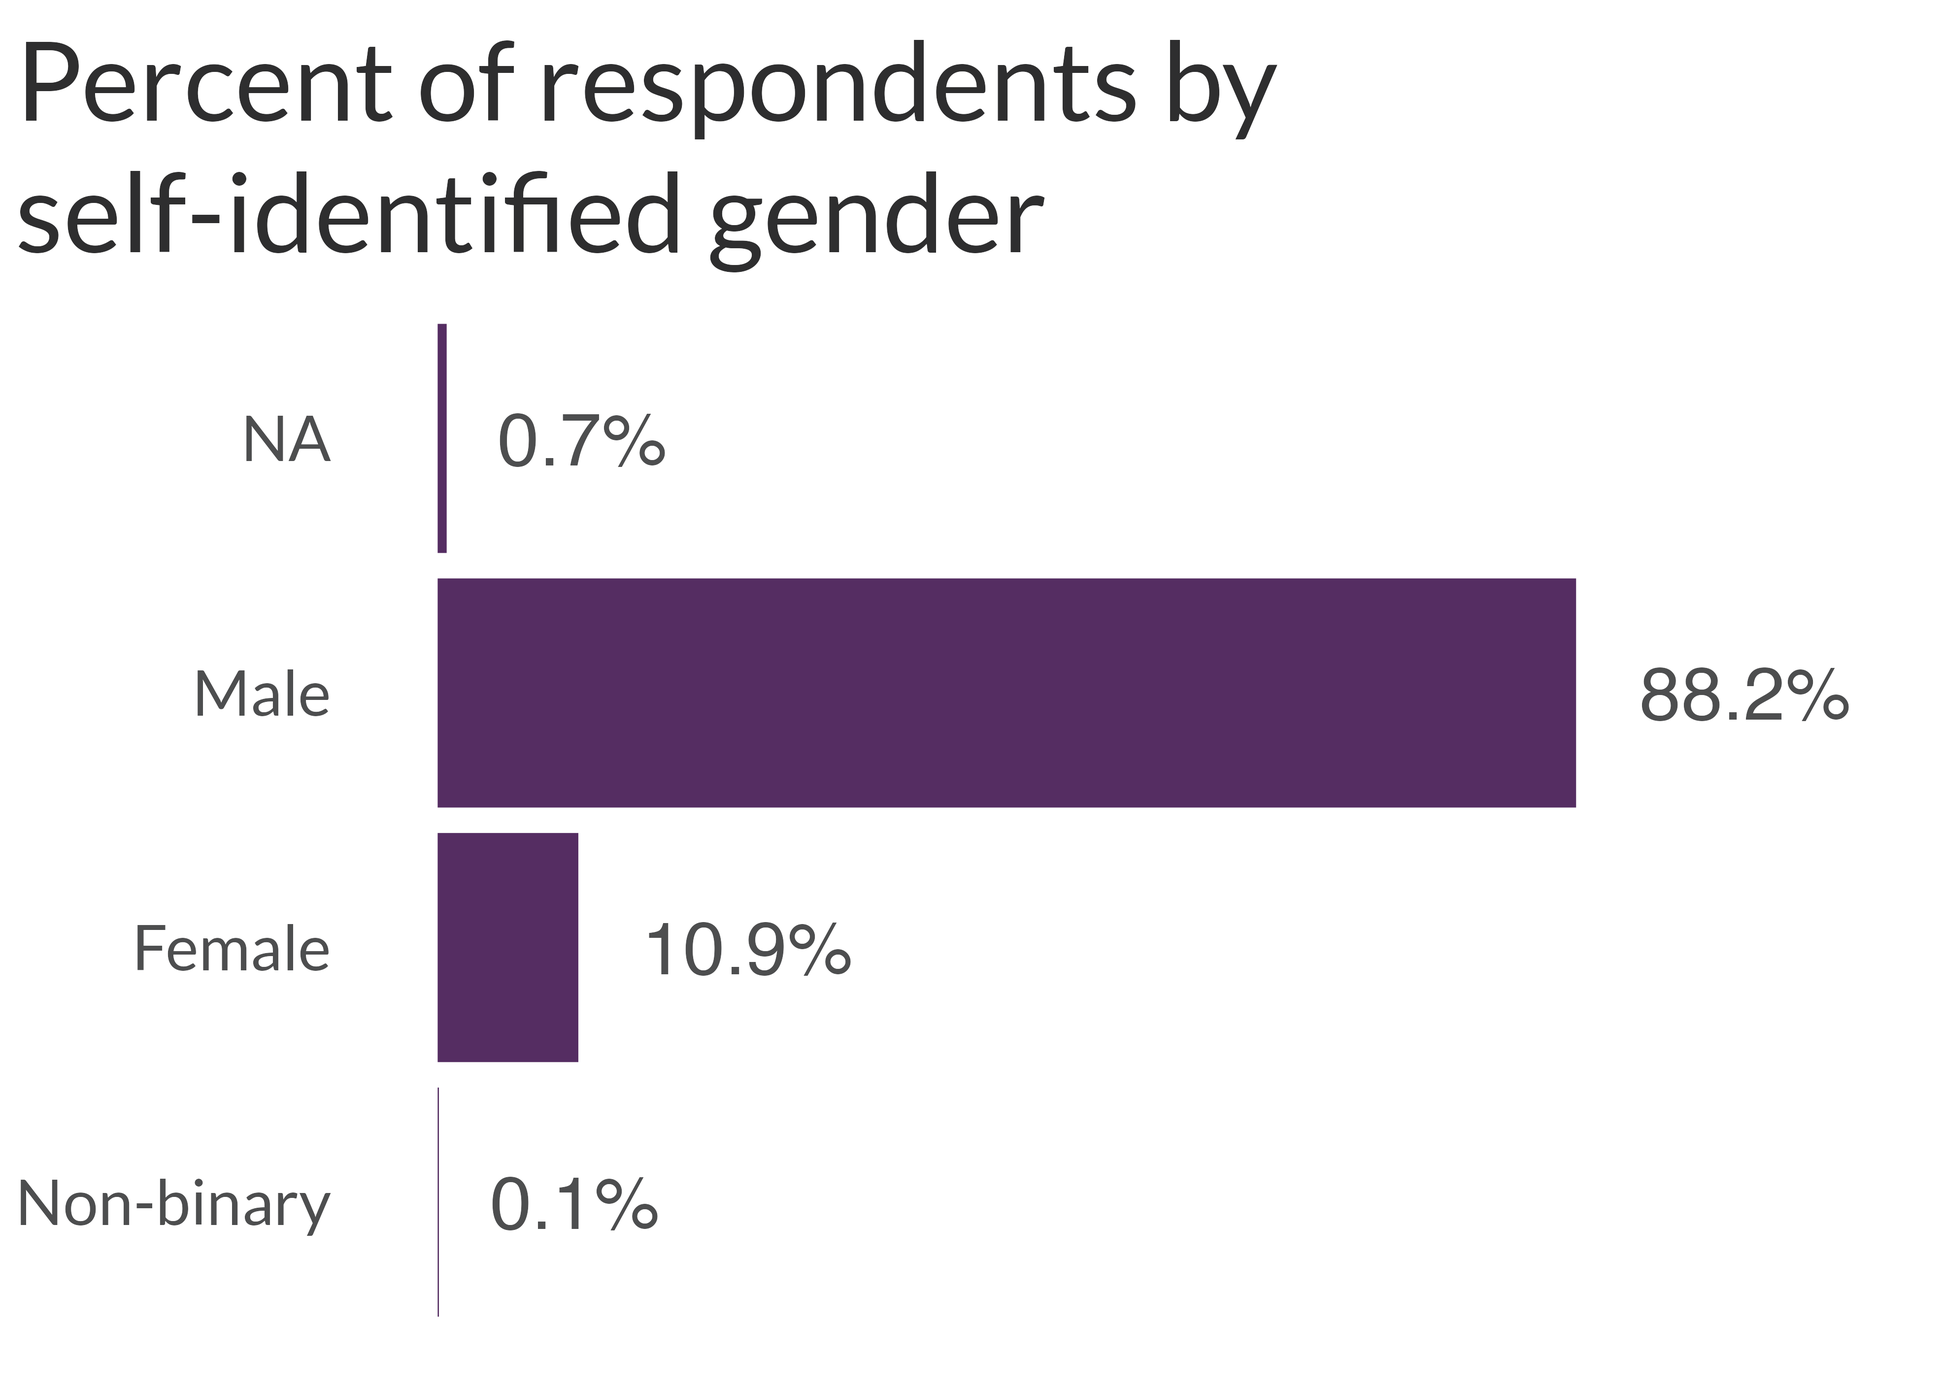
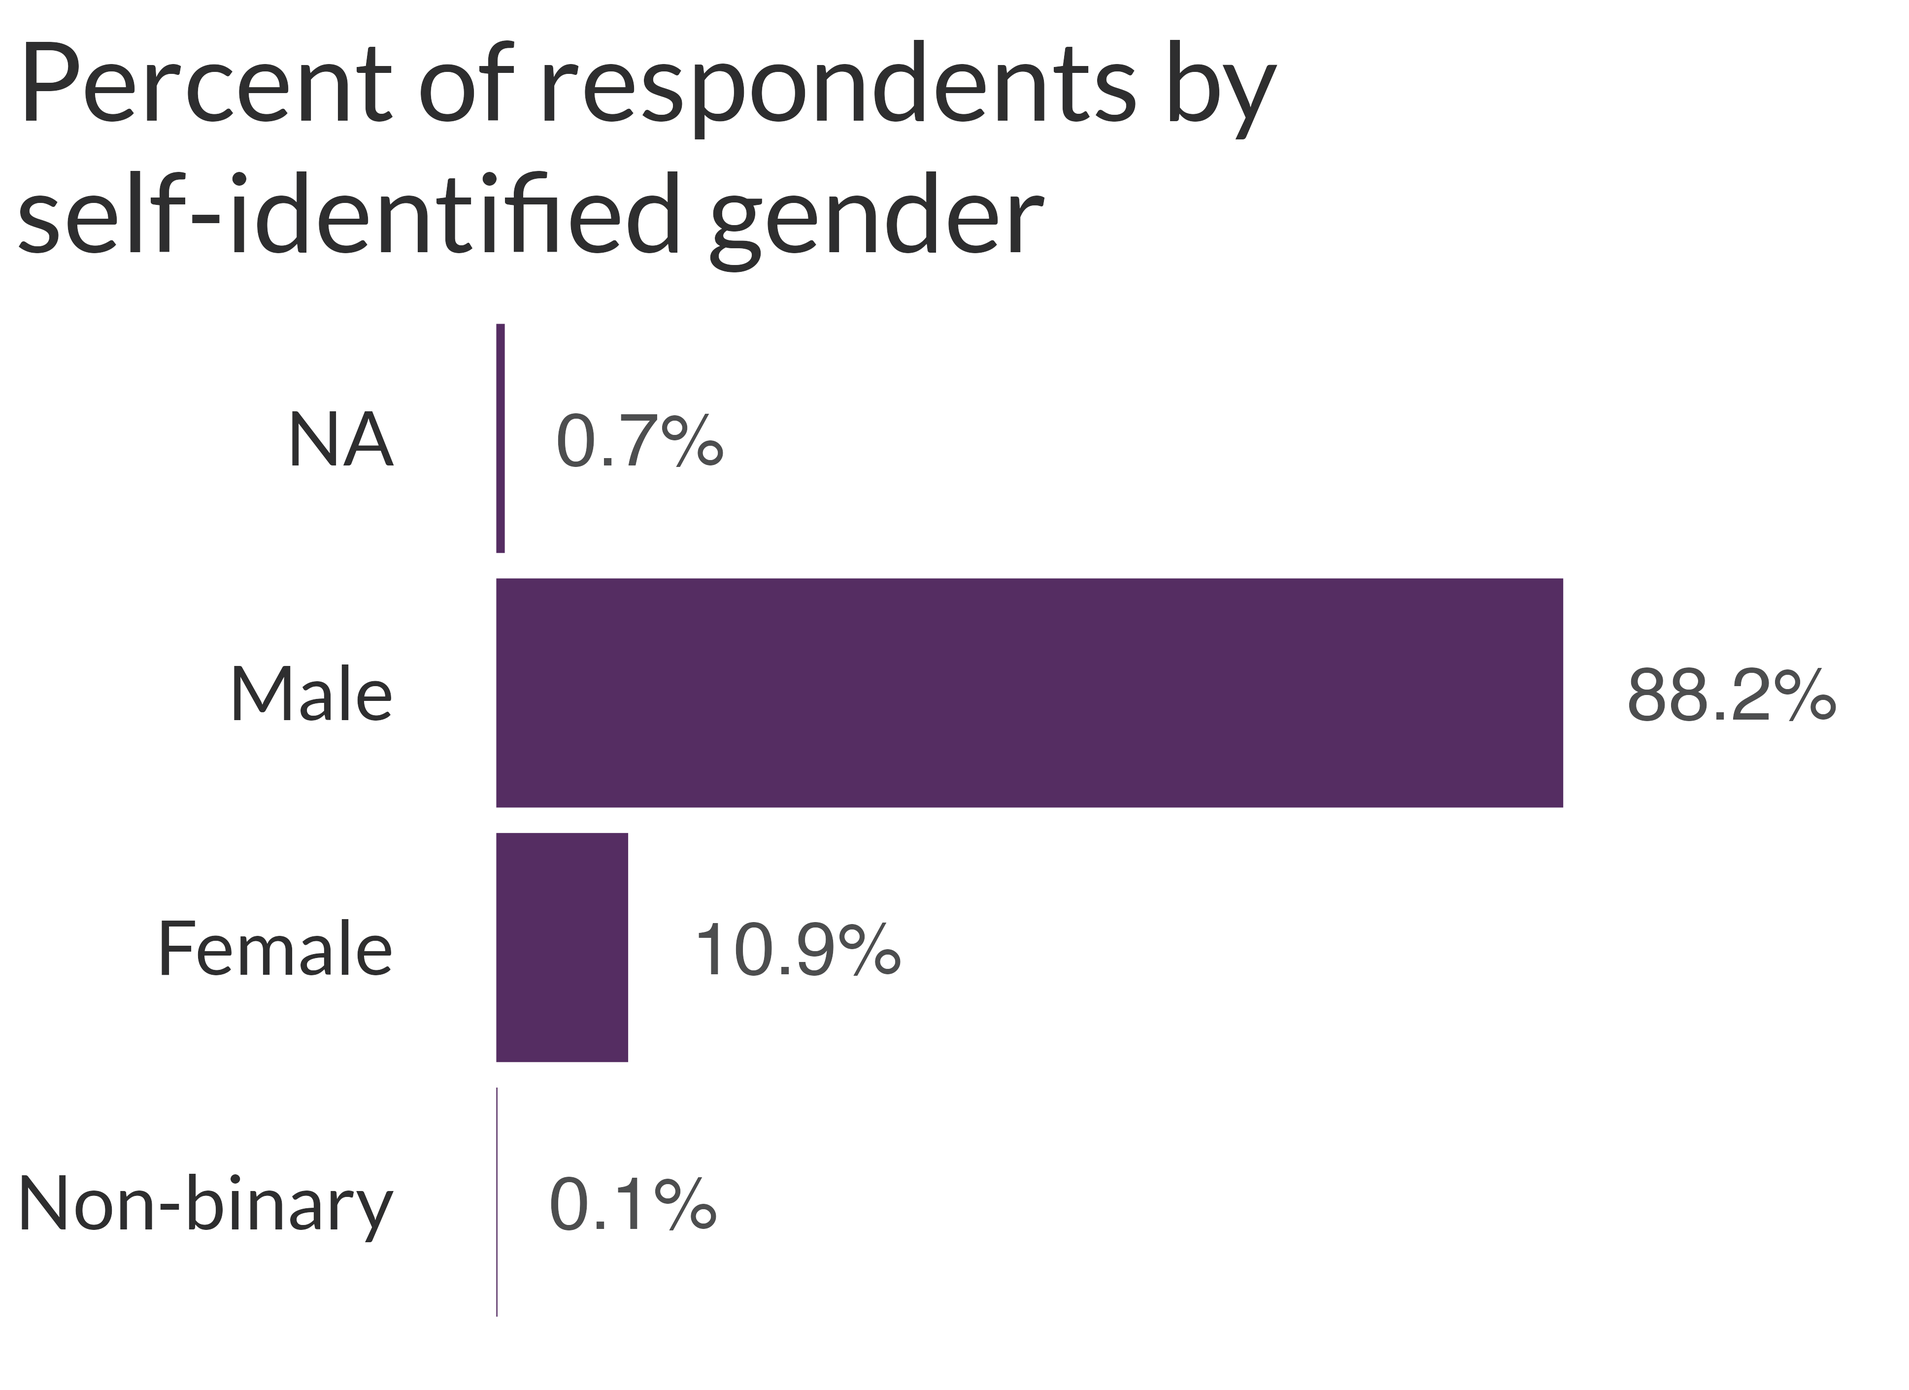
Figure tweaks, updates to RSE version

diff --git a/2023-04-22_SatRday-London_R-sustainability-EDI.html b/2023-04-22_SatRday-London_R-sustainability-EDI.html
@@ -5,9 +5,10 @@
 <script src="2023-04-22_SatRday-London_R-sustainability-EDI_files/libs/quarto-html/popper.min.js"></script>
 <script src="2023-04-22_SatRday-London_R-sustainability-EDI_files/libs/quarto-html/tippy.umd.min.js"></script>
 <link href="2023-04-22_SatRday-London_R-sustainability-EDI_files/libs/quarto-html/tippy.css" rel="stylesheet">
+<link href="2023-04-22_SatRday-London_R-sustainability-EDI_files/libs/quarto-html/light-border.css" rel="stylesheet">
 <link href="2023-04-22_SatRday-London_R-sustainability-EDI_files/libs/quarto-html/quarto-html.min.css" rel="stylesheet" data-mode="light">
 <link href="2023-04-22_SatRday-London_R-sustainability-EDI_files/libs/quarto-html/quarto-syntax-highlighting.css" rel="stylesheet" id="quarto-text-highlighting-styles"><meta charset="utf-8">
-  <meta name="generator" content="quarto-1.2.335">
+  <meta name="generator" content="quarto-1.3.250">
 
   <meta name="author" content="Heather Turner and Ella Kaye">
   <meta name="dcterms.date" content="2023-04-22">
@@ -26,7 +27,7 @@
     ul.task-list{list-style: none;}
     ul.task-list li input[type="checkbox"] {
       width: 0.8em;
-      margin: 0 0.8em 0.2em -1.6em;
+      margin: 0 0.8em 0.2em -1em; /* quarto-specific, see https://github.com/quarto-dev/quarto-cli/issues/4556 */ 
       vertical-align: middle;
     }
   </style>
@@ -73,44 +74,44 @@
     font-weight: 400;
   }
 
-  .callout.callout-captioned.callout-style-simple .callout-body {
+  .callout.callout-titled.callout-style-simple .callout-body {
     margin-top: 0.2em;
   }
 
-  .callout:not(.callout-captioned) .callout-body {
+  .callout:not(.callout-titled) .callout-body {
       display: flex;
   }
 
-  .callout:not(.no-icon).callout-captioned.callout-style-simple .callout-content {
+  .callout:not(.no-icon).callout-titled.callout-style-simple .callout-content {
     padding-left: 1.6em;
   }
 
-  .callout.callout-captioned .callout-header {
+  .callout.callout-titled .callout-header {
     padding-top: 0.2em;
     margin-bottom: -0.2em;
   }
 
-  .callout.callout-captioned .callout-caption  p {
+  .callout.callout-titled .callout-title  p {
     margin-top: 0.5em;
     margin-bottom: 0.5em;
   }
     
-  .callout.callout-captioned.callout-style-simple .callout-content  p {
+  .callout.callout-titled.callout-style-simple .callout-content  p {
     margin-top: 0;
   }
 
-  .callout.callout-captioned.callout-style-default .callout-content  p {
+  .callout.callout-titled.callout-style-default .callout-content  p {
     margin-top: 0.7em;
   }
 
-  .callout.callout-style-simple div.callout-caption {
+  .callout.callout-style-simple div.callout-title {
     border-bottom: none;
     font-size: .9rem;
     font-weight: 600;
     opacity: 75%;
   }
 
-  .callout.callout-style-default  div.callout-caption {
+  .callout.callout-style-default  div.callout-title {
     border-bottom: none;
     font-weight: 600;
     opacity: 85%;
@@ -142,7 +143,7 @@
     background-size: 0.9rem 0.9rem;
   }
 
-  .callout-caption {
+  .callout-title {
     display: flex
   }
     
@@ -155,16 +156,16 @@
     display: none !important;
   }
 
-  .callout.callout-captioned .callout-body > .callout-content > :last-child {
+  .callout.callout-titled .callout-body > .callout-content > :last-child {
     margin-bottom: 0.5rem;
   }
 
-  .callout.callout-captioned .callout-icon::before {
+  .callout.callout-titled .callout-icon::before {
     margin-top: .5rem;
     padding-right: .5rem;
   }
 
-  .callout:not(.callout-captioned) .callout-icon::before {
+  .callout:not(.callout-titled) .callout-icon::before {
     margin-top: 1rem;
     padding-right: .5rem;
   }
@@ -179,7 +180,7 @@
[1 lines of base64/hex data omitted]
   }
 
-  div.callout-note.callout-style-default .callout-caption {
+  div.callout-note.callout-style-default .callout-title {
     background-color: #dae6fb
   }
 
@@ -191,7 +192,7 @@
[1 lines of base64/hex data omitted]
   }
 
-  div.callout-important.callout-style-default .callout-caption {
+  div.callout-important.callout-style-default .callout-title {
     background-color: #f7dddc
   }
 
@@ -203,7 +204,7 @@
[1 lines of base64/hex data omitted]
   }
 
-  div.callout-warning.callout-style-default .callout-caption {
+  div.callout-warning.callout-style-default .callout-title {
     background-color: #fcefdc
   }
 
@@ -215,7 +216,7 @@
[1 lines of base64/hex data omitted]
   }
 
-  div.callout-tip.callout-style-default .callout-caption {
+  div.callout-tip.callout-style-default .callout-title {
     background-color: #ccf1e3
   }
 
@@ -227,7 +228,7 @@
[1 lines of base64/hex data omitted]
   }
 
-  div.callout-caution.callout-style-default .callout-caption {
+  div.callout-caution.callout-style-default .callout-title {
     background-color: #ffe5d0
   }
 
@@ -375,7 +376,7 @@ Heather Turner and Ella Kaye
 <h2>Sustainability</h2>
 <p>Those who contributed the most to R early on are now near the end of their careers, only partially replaced by new contributors.</p>
 
-<img data-src="figures/r_core_commits.png" class="r-stretch quarto-figure-center"><aside class="notes">
+<img data-src="figures/r_core_commits.png" width="432" class="r-stretch quarto-figure-center"><aside class="notes">
 <ul>
 <li>Originally developed by academics, core R underpins &gt;20,000 packages</li>
 <li>Early on, strong group of heavy committers supported by wide group of regular committers</li>
@@ -404,7 +405,7 @@ Heather Turner and Ella Kaye
 <div class="cell-output-display">
 <div class="quarto-figure quarto-figure-center">
 <figure>
-<p><img data-src="figures/gender.png" style="width:90.0%"></p>
+<p><img data-src="figures/gender.png" style="width:100.0%"></p>
 </figure>
 </div>
 </div>
@@ -414,7 +415,7 @@ Heather Turner and Ella Kaye
 <div class="cell-output-display">
 <div class="quarto-figure quarto-figure-center">
 <figure>
-<p><img data-src="figures/location.png" style="width:90.0%"></p>
+<p><img data-src="figures/location.png" style="width:100.0%"></p>
 </figure>
 </div>
 </div>
@@ -431,9 +432,9 @@ Heather Turner and Ella Kaye
 <li>Decreased duplication of effort as people work together</li>
 </ul>
 <div class="fragment">
-<div class="callout callout-note no-icon callout-captioned callout-style-default">
+<div class="callout callout-note no-icon callout-titled callout-style-default">
 <div class="callout-body">
-<div class="callout-caption">
+<div class="callout-title">
 <p><strong>Personal reflection</strong></p>
 </div>
 <div class="callout-content">
@@ -519,7 +520,7 @@ Heather Turner and Ella Kaye
 <li>Reviewing bugs</li>
 </ul>
 
-<img data-src="figures/bug_status.png" class="r-stretch quarto-figure-center"><aside class="notes">
+<img data-src="figures/bug_status.png" width="358" class="r-stretch quarto-figure-center"><aside class="notes">
 <p>lots unconfirmed - confirming they are really bugs is something that novice contributors can do</p>
 <style type="text/css">
         span.MJX_Assistive_MathML {
@@ -540,7 +541,7 @@ Heather Turner and Ella Kaye
 <li>Contributing translations</li>
 </ul>
 
-<img data-src="figures/translation_status.png" class="r-stretch quarto-figure-center"><aside class="notes">
+<img data-src="figures/translation_status.png" width="442" class="r-stretch quarto-figure-center"><aside class="notes">
 <p>translations of messages Spanish is an interesting case, given large Spanish-speaking userbase</p>
 <style type="text/css">
         span.MJX_Assistive_MathML {
@@ -1118,9 +1119,23 @@ div.callout-warning.callout-style-default .callout-title {
       tabsets.forEach(function(tabset) {
         const tabby = new Tabby('#' + tabset.id);
       });
+      const isCodeAnnotation = (el) => {
+        for (const clz of el.classList) {
+          if (clz.startsWith('code-annotation-')) {                     
+            return true;
+          }
+        }
+        return false;
+      }
       const clipboard = new window.ClipboardJS('.code-copy-button', {
-        target: function(trigger) {
-          return trigger.previousElementSibling;
+        text: function(trigger) {
+          const codeEl = trigger.previousElementSibling.cloneNode(true);
+          for (const childEl of codeEl.children) {
+            if (isCodeAnnotation(childEl)) {
+              childEl.remove();
+            }
+          }
+          return codeEl.innerText;
         }
       });
       clipboard.on('success', function(e) {
@@ -1168,7 +1183,7 @@ div.callout-warning.callout-style-default .callout-title {
           },
           interactive: true,
           interactiveBorder: 10,
-          theme: 'quarto-reveal',
+          theme: 'light-border',
           placement: 'bottom-start'
         };
           config['offset'] = [0,0];
@@ -1230,7 +1245,7 @@ div.callout-warning.callout-style-default .callout-title {
             return filterRegex.test(href) || localhostRegex.test(href);
         }
         // Inspect non-navigation links and adorn them if external
-        var links = window.document.querySelectorAll('a:not(.nav-link):not(.navbar-brand):not(.toc-action):not(.sidebar-link):not(.sidebar-item-toggle):not(.pagination-link):not(.no-external):not([aria-hidden]):not(.dropdown-item)');
+     	var links = window.document.querySelectorAll('a[href]:not(.nav-link):not(.navbar-brand):not(.toc-action):not(.sidebar-link):not(.sidebar-item-toggle):not(.pagination-link):not(.no-external):not([aria-hidden]):not(.dropdown-item)');
         for (var i=0; i<links.length; i++) {
           const link = links[i];
           if (!isInternal(link.href)) {

diff --git a/rse-midlands-sustain-r.html b/rse-midlands-sustain-r.html
@@ -8,7 +8,7 @@
 <link href="rse-midlands-sustain-r_files/libs/quarto-html/light-border.css" rel="stylesheet">
 <link href="rse-midlands-sustain-r_files/libs/quarto-html/quarto-html.min.css" rel="stylesheet" data-mode="light">
 <link href="rse-midlands-sustain-r_files/libs/quarto-html/quarto-syntax-highlighting.css" rel="stylesheet" id="quarto-text-highlighting-styles"><meta charset="utf-8">
-  <meta name="generator" content="quarto-1.3.290">
+  <meta name="generator" content="quarto-1.3.250">
 
   <meta name="author" content="Heather Turner and Ella Kaye">
   <meta name="dcterms.date" content="2023-04-24">
@@ -371,7 +371,7 @@ Heather Turner and Ella Kaye
 <div class="column" style="width:30%;">
 <div class="quarto-figure quarto-figure-center">
 <figure>
-<p><img data-src="images/Rlogo.png" class="quarto-discovered-preview-image"></p>
+<p><img data-src="images/Rlogo.png"></p>
 <p></p><figcaption><a href="https://www.r-project.org/logo/">R Project logo</a>, <a href="https://creativecommons.org/licenses/by-sa/4.0/">CC BY-SA 4.0</a></figcaption><p></p>
 </figure>
 </div>
@@ -431,7 +431,7 @@ Heather Turner and Ella Kaye
 <div class="cell-output-display">
 <div class="quarto-figure quarto-figure-center">
 <figure>
-<p><img data-src="figures/gender.png" width="322"></p>
+<p><img data-src="figures/gender.png" width="388"></p>
 </figure>
 </div>
 </div>
@@ -441,7 +441,7 @@ Heather Turner and Ella Kaye
 <div class="cell-output-display">
 <div class="quarto-figure quarto-figure-center">
 <figure>
-<p><img data-src="figures/location.png" width="322"></p>
+<p><img data-src="figures/location.png" width="388"></p>
 </figure>
 </div>
 </div>
@@ -551,21 +551,19 @@ Heather Turner and Ella Kaye
 </section>
 <section id="r-development-guide" class="slide level2">
 <h2>R Development Guide</h2>
+<p><a href="https://contributor.r-project.org/rdevguide/" class="uri">https://contributor.r-project.org/rdevguide/</a></p>
 <div class="columns">
-<div class="column" style="width:30%;">
-<div class="quarto-figure quarto-figure-center">
-<figure>
-<p><img data-src="images/GSoD.png"></p>
-<p></p><figcaption>Logo <a href="https://developers.google.com/terms/site-policies">shared by Google</a>, <a href="https://creativecommons.org/licenses/by-nc-nd/4.0/">CC BY-NC-ND 4.0</a></figcaption><p></p>
-</figure>
-</div>
-</div><div class="column" style="width:70%;">
-<p>Expand and Reorganise the R Development Guide:</p>
+<div class="column" style="width:60%;">
+<p><img data-src="figures/r_dev_guide.png"></p>
+</div><div class="column" style="width:40%;">
 <ul>
-<li><a href="https://contributor.r-project.org/rdevguide/" class="uri">https://contributor.r-project.org/rdevguide/</a></li>
-<li>Overview of project and ways to contribute</li>
-<li>GitHub workflow for testing patches</li>
-<li>How to contribute translations</li>
+<li>Novice-friendly</li>
+<li>Initial focus on established workflows for bugs &amp; translations</li>
+<li>Recent/ongoing:
+<ul>
+<li>Further topics</li>
+<li>Alternative workflows</li>
+</ul></li>
 </ul>
 </div>
 </div>
@@ -809,7 +807,7 @@ div.callout-warning.callout-style-default .callout-title {
 'autoAnimateEasing': "ease",
 'autoAnimateDuration': 1,
 'autoAnimateUnmatched': true,
-'menu': {"side":"left","useTextContentForMissingTitles":true,"markers":false,"loadIcons":false,"custom":[{"title":"Tools","icon":"<i class=\"fas fa-gear\"></i>","content":"<ul class=\"slide-menu-items\">\n<li class=\"slide-tool-item active\" data-item=\"0\"><a href=\"#\" onclick=\"RevealMenuToolHandlers.fullscreen(event)\"><kbd>f</kbd> Fullscreen</a></li>\n<li class=\"slide-tool-item\" data-item=\"1\"><a href=\"#\" onclick=\"RevealMenuToolHandlers.speakerMode(event)\"><kbd>s</kbd> Speaker View</a></li>\n<li class=\"slide-tool-item\" data-item=\"2\"><a href=\"#\" onclick=\"RevealMenuToolHandlers.overview(event)\"><kbd>o</kbd> Slide Overview</a></li>\n<li class=\"slide-tool-item\" data-item=\"3\"><a href=\"#\" onclick=\"RevealMenuToolHandlers.togglePdfExport(event)\"><kbd>e</kbd> PDF Export Mode</a></li>\n<li class=\"slide-tool-item\" data-item=\"4\"><a href=\"#\" onclick=\"RevealMenuToolHandlers.keyboardHelp(event)\"><kbd>?</kbd> Keyboard Help</a></li>\n</ul>"}],"openButton":true},
+'menu': {"side":"left","useTextContentForMissingTitles":true,"markers":false,"loadIcons":false,"custom":[{"title":"Tools","icon":"<i class=\"fas fa-gear\"></i>","content":"<ul class=\"slide-menu-items\">\n<li class=\"slide-tool-item active\" data-item=\"0\"><a href=\"#\" onclick=\"RevealMenuToolHandlers.fullscreen(event)\"><kbd>f</kbd> Fullscreen</a></li>\n<li class=\"slide-tool-item\" data-item=\"1\"><a href=\"#\" onclick=\"RevealMenuToolHandlers.speakerMode(event)\"><kbd>s</kbd> Speaker View</a></li>\n<li class=\"slide-tool-item\" data-item=\"2\"><a href=\"#\" onclick=\"RevealMenuToolHandlers.overview(event)\"><kbd>o</kbd> Slide Overview</a></li>\n<li class=\"slide-tool-item\" data-item=\"3\"><a href=\"#\" onclick=\"RevealMenuToolHandlers.overview(event)\"><kbd>e</kbd> PDF Export Mode</a></li>\n<li class=\"slide-tool-item\" data-item=\"4\"><a href=\"#\" onclick=\"RevealMenuToolHandlers.keyboardHelp(event)\"><kbd>?</kbd> Keyboard Help</a></li>\n</ul>"}],"openButton":true},
 'smaller': false,
  
         // Display controls in the bottom right corner

diff --git a/Turing-sustain-R.html b/Turing-sustain-R.html
@@ -8,7 +8,7 @@
 <link href="Turing-sustain-R_files/libs/quarto-html/light-border.css" rel="stylesheet">
 <link href="Turing-sustain-R_files/libs/quarto-html/quarto-html.min.css" rel="stylesheet" data-mode="light">
 <link href="Turing-sustain-R_files/libs/quarto-html/quarto-syntax-highlighting.css" rel="stylesheet" id="quarto-text-highlighting-styles"><meta charset="utf-8">
-  <meta name="generator" content="quarto-1.3.290">
+  <meta name="generator" content="quarto-1.3.250">
 
   <meta name="author" content="Heather Turner and Ella Kaye">
   <meta name="dcterms.date" content="2023-04-20">
@@ -371,7 +371,7 @@ Heather Turner and Ella Kaye
 <div class="column" style="width:30%;">
 <div class="quarto-figure quarto-figure-center">
 <figure>
-<p><img data-src="images/Rlogo.png" class="quarto-discovered-preview-image"></p>
+<p><img data-src="images/Rlogo.png"></p>
 <p></p><figcaption><a href="https://www.r-project.org/logo/">R Project logo</a>, <a href="https://creativecommons.org/licenses/by-sa/4.0/">CC BY-SA 4.0</a></figcaption><p></p>
 </figure>
 </div>
@@ -896,7 +896,7 @@ div.callout-warning.callout-style-default .callout-title {
 'autoAnimateEasing': "ease",
 'autoAnimateDuration': 1,
 'autoAnimateUnmatched': true,
-'menu': {"side":"left","useTextContentForMissingTitles":true,"markers":false,"loadIcons":false,"custom":[{"title":"Tools","icon":"<i class=\"fas fa-gear\"></i>","content":"<ul class=\"slide-menu-items\">\n<li class=\"slide-tool-item active\" data-item=\"0\"><a href=\"#\" onclick=\"RevealMenuToolHandlers.fullscreen(event)\"><kbd>f</kbd> Fullscreen</a></li>\n<li class=\"slide-tool-item\" data-item=\"1\"><a href=\"#\" onclick=\"RevealMenuToolHandlers.speakerMode(event)\"><kbd>s</kbd> Speaker View</a></li>\n<li class=\"slide-tool-item\" data-item=\"2\"><a href=\"#\" onclick=\"RevealMenuToolHandlers.overview(event)\"><kbd>o</kbd> Slide Overview</a></li>\n<li class=\"slide-tool-item\" data-item=\"3\"><a href=\"#\" onclick=\"RevealMenuToolHandlers.togglePdfExport(event)\"><kbd>e</kbd> PDF Export Mode</a></li>\n<li class=\"slide-tool-item\" data-item=\"4\"><a href=\"#\" onclick=\"RevealMenuToolHandlers.keyboardHelp(event)\"><kbd>?</kbd> Keyboard Help</a></li>\n</ul>"}],"openButton":true},
+'menu': {"side":"left","useTextContentForMissingTitles":true,"markers":false,"loadIcons":false,"custom":[{"title":"Tools","icon":"<i class=\"fas fa-gear\"></i>","content":"<ul class=\"slide-menu-items\">\n<li class=\"slide-tool-item active\" data-item=\"0\"><a href=\"#\" onclick=\"RevealMenuToolHandlers.fullscreen(event)\"><kbd>f</kbd> Fullscreen</a></li>\n<li class=\"slide-tool-item\" data-item=\"1\"><a href=\"#\" onclick=\"RevealMenuToolHandlers.speakerMode(event)\"><kbd>s</kbd> Speaker View</a></li>\n<li class=\"slide-tool-item\" data-item=\"2\"><a href=\"#\" onclick=\"RevealMenuToolHandlers.overview(event)\"><kbd>o</kbd> Slide Overview</a></li>\n<li class=\"slide-tool-item\" data-item=\"3\"><a href=\"#\" onclick=\"RevealMenuToolHandlers.overview(event)\"><kbd>e</kbd> PDF Export Mode</a></li>\n<li class=\"slide-tool-item\" data-item=\"4\"><a href=\"#\" onclick=\"RevealMenuToolHandlers.keyboardHelp(event)\"><kbd>?</kbd> Keyboard Help</a></li>\n</ul>"}],"openButton":true},
 'smaller': false,
  
         // Display controls in the bottom right corner
